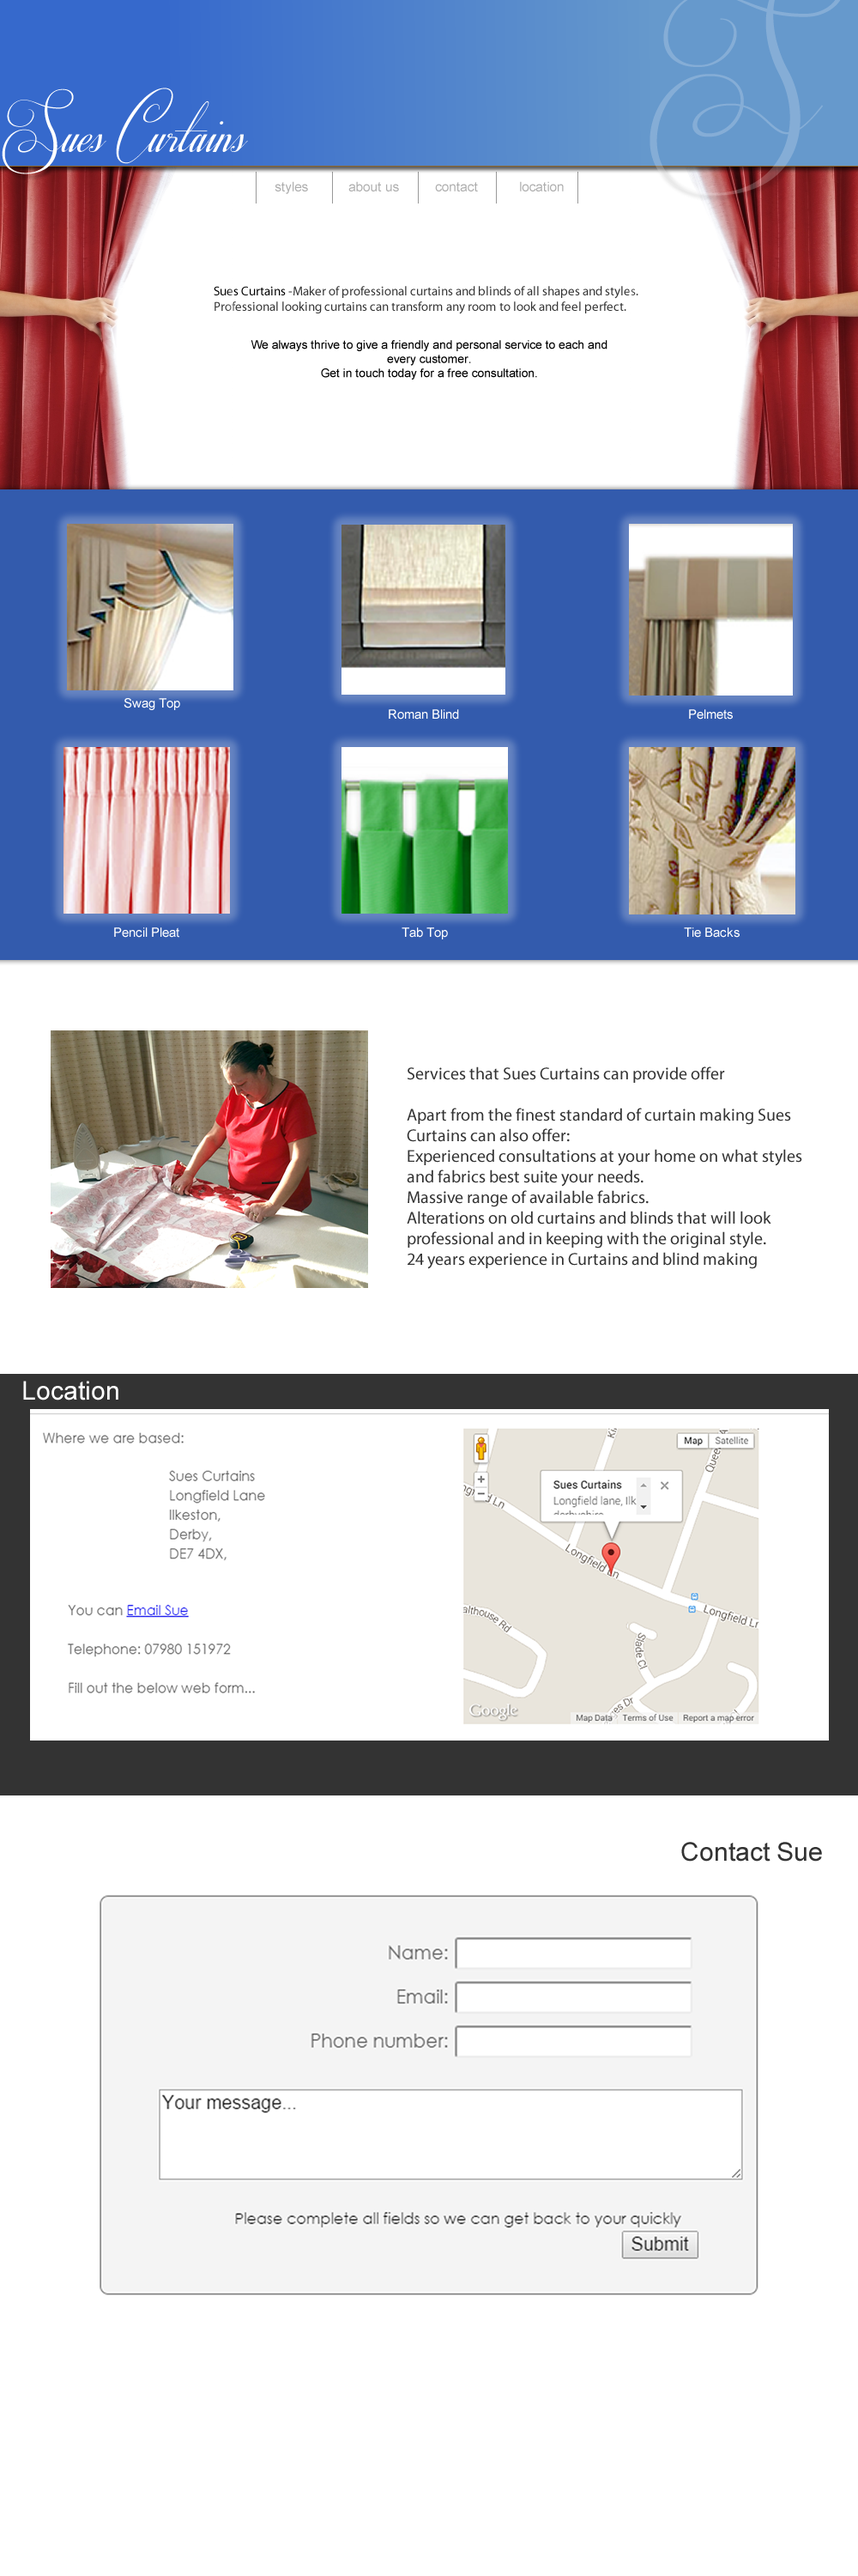
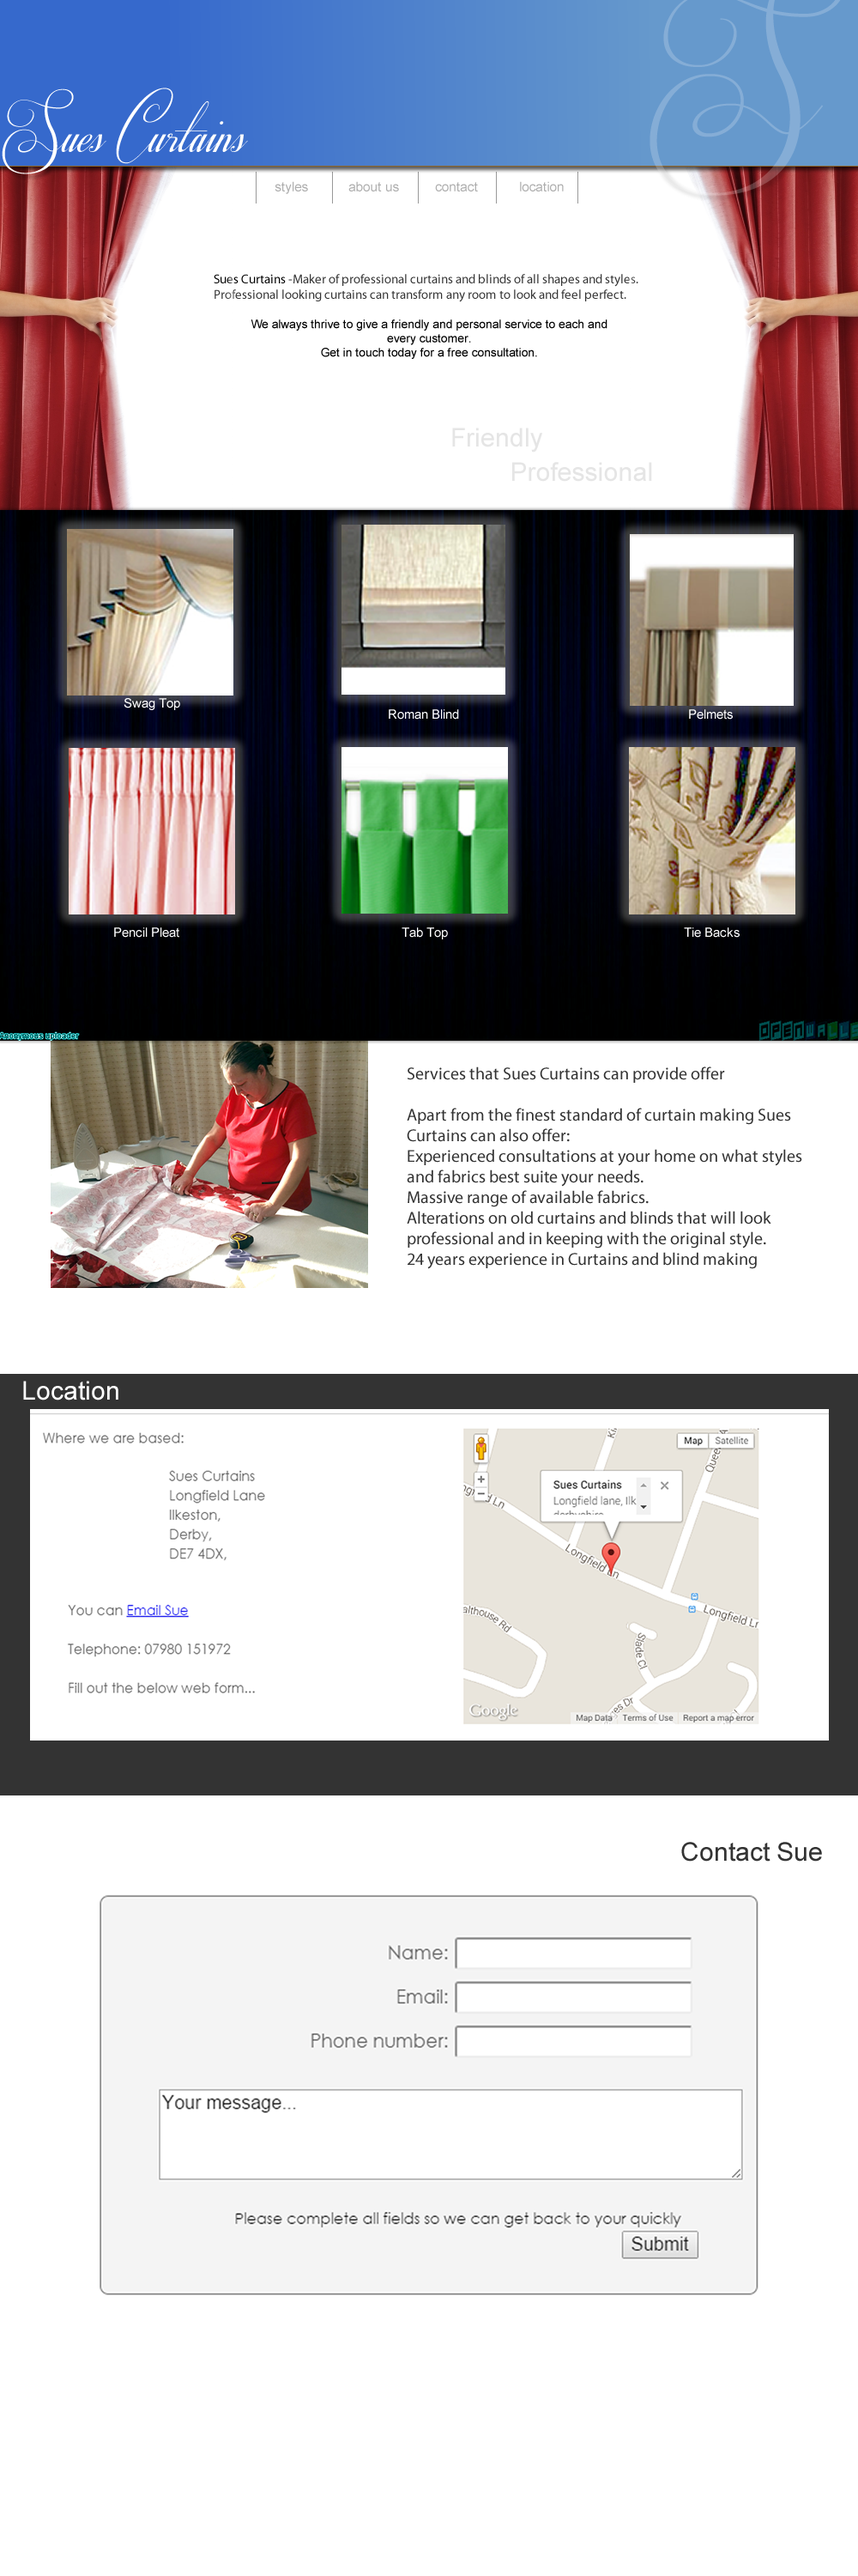
further updates

Changed region(s): [[0.0, 0.186, 1.0, 0.403], [0.248, 0.093, 0.744, 0.155]]

diff --git a/HTML/SuesCurtains/public_html/index.html b/HTML/SuesCurtains/public_html/index.html
@@ -64,9 +64,9 @@
         </div>
          <!--Contains all the top info incluing the gallery.-->
         <div id="intro">
-            <div id="intro-curtain-left">
-                <img src="img/curtainL.png" alt="Hand holding curtain open"/>
-            </div>
+            <!--<div id="intro-curtain-left">
+                <img src="img/curtainL.png" alt="Hand holding left curtain open"/>
+            </div>-->
             <div id="intro-info-center">
                 
                 <p class="SC-font">Welcome to <b>Sues Curtains</b> - Makers of professional curtains and blinds of all shapes and styles.<br/>
@@ -77,13 +77,56 @@
                 So get in touch today for a free consultation.</p>
                 
             </div>
-            <div id="intro-curtain-right">
-                <img src="img/curtainR.png" alt="Hand holding curtain open"/>                
-            </div>
-            
+
+            <!--<div id="intro-curtain-right">
+                <img src="img/curtainR.png" alt="Hand holding right curtain open"/>                
+            </div>--> 
         </div>
+         
+         <div id="designs">
+             <span class="faded-white">Styles</span>
+             <div id="designs-leftContent" class="designsShared">
+                 <img src="img/thb-tabtop.jpg" class="thmb_shadow" alt="Tab top"/>
+                 <br/><div class="text-hiLighter"><span>Tab Top</span></div><br/>
+                 <br/>
+                 <img src="img/thb-pencil.jpg" class="thmb_shadow" alt="Pencil pleat"/>
+                 <br/><div class="text-hiLighter"> <span>Pencil Pleat</span></div><br/> 
+             </div>
+             <div id="designs-centerContent" class="designsShared">
+                 <img src="img/thb-roman.jpg" class="thmb_shadow" alt="Roman blind"/>
+                 <br/><div class="text-hiLighter"><span>Roman Blind</span></div><br/>
+                 <br/>
+                 <img src="img/thb-swag.jpg" class="thmb_shadow" alt="Swag tail style"/>
+                 <br/><div class="text-hiLighter"> <span>Swag Tails</span></div><br/> 
+                 
+             </div>
+             <div id="designs-rightContent" class="designsShared">
+                 <img src="img/thb-tiebackjpg.jpg" class="thmb_shadow" alt="Tie back"/>
+                 <br/><div class="text-hiLighter"><span>Tie backs</span></div><br/>
+                 <br/>
+                 <img src="img/thb-pelmet.jpg" class="thmb_shadow" alt="Pelmet"/>
+                 <br/><div class="text-hiLighter"> <span>Pelmets</span></div><br/> 
+             </div>
+         </div>
         
-        <!-- PUT BACK IN FOR RELEASE - OUT FOR TESTING!!!!!!!!
+         <br/><br/><br/>
+         
+         
+         <div id="about">
+             <div id="about-content-holder">
+                <div id="about-sueImage">
+                    <img src="img/suework.jpg" alt="Sue at work"/>
+                </div>
+                <div id="about-information">
+                    <b> About Sue </b><br/><br/>
+                    Hello my name is sue and I make curtains, and look after Fudge who is a bit of a fluffy hound that farts alot.<br/><br/>
+                    Apart from that everything needs to fit ok here Im not sure how well everything is going to fit but I will dam sure that I 
+                    give it my best to get all the correct and useful information that a potential customer may very well be requiring when making that final decision to buy a rather
+                    smashing set of brand spanking new curtains.
+                </div>
+             </div>
+         </div>
+        <!-- PUT BACK IN FOR RELEASE - OUT FOR DEVELOPMENT!!!!!!!!
         <script src="//ajax.googleapis.com/ajax/libs/jquery/1.9.1/jquery.min.js"></script>
         <script>window.jQuery || document.write('<script src="js/vendor/jquery-1.9.1.min.js"><\/script>')</script>
         <script src="js/plugins.js"></script>

diff --git a/HTML/SuesCurtains/public_html/css/sc-style.css b/HTML/SuesCurtains/public_html/css/sc-style.css
@@ -41,7 +41,7 @@ div#header-GS
 div#header-SLogo
 {
     display: inline-block;
-    margin-top: 135px;
+    margin-top: 107px;
 }
 
 div#navigation
@@ -60,6 +60,7 @@ div#intro
 {
     width: 100%;
     margin-top: -65px;
+    height: 400px;
 }
 div#intro-info-center
 {
@@ -115,11 +116,81 @@ div#intro-right-galleryContainer
     border-right: solid #999 thin; 
 }
 
+div#designs
+{
+    width: 100%;
+    background: #151515;
+            
+    -webkit-box-shadow: inset 1px 0px 10px 3px rgba(0,0,0,0.75);
+    -moz-box-shadow: inset 1px 0px 10px 3px rgba(0,0,0,0.75);
+    box-shadow: inset 1px 0px 10px 3px rgba(0,0,0,0.75);
+    
+    padding: 30px;
+    text-align: center;
+}
+
+.designsShared{
+    display: inline-block;
+    width: 30%;
+    color: white;
+}
+
+.thmb_shadow{
+    -webkit-box-shadow: 1px 0px 10px 3px rgba(255,255,255,255.20);
+    -moz-box-shadow: 1px 0px 10px 3px rgba(255,255,255,255.20);
+    box-shadow: 1px 0px 10px 3px rgba(255,255,255,255.20);
+    margin: 5px;
+}
+.text-hiLighter
+{
+    padding: 7px;
+    background: rgb(54, 25, 25); /* Fall-back for browsers that don't
+                                    support rgba */
+    background: rgba(54, 25, 25, .7);
+    display: inline-block;
+    -webkit-border-radius: 10px;
+    -moz-border-radius: 10px;
+    border-radius: 10px;
+    margin-top: 10px;
+
+}
 
 //Bug fix for gradients in IE9
 .gradient {
        filter: none;
 }
+.faded-white
+{
+    color: white;
+    font-size: x-large;
+    float: left;
+    opacity: 0.2;
+}
 
+div#about
+{
+    width: 100%;
+    padding: 20px;
+}
 
+div#about-sueImage
+{
+    display: inline-block;
+    margin-right: 20px;
+    vertical-align: top;
+}
+div#about-information
+{
+    display: inline-block;
+    width: 50%;
+    margin-top: 30px;
+    color: #6E6D6D;
+    text-align: center;
+    font-size: 14px;
+}
     
+div#about-content-holder
+{
+    margin: 0 auto;
+    width: 940px;/*We know our page never shrinks more than this*/
+}
